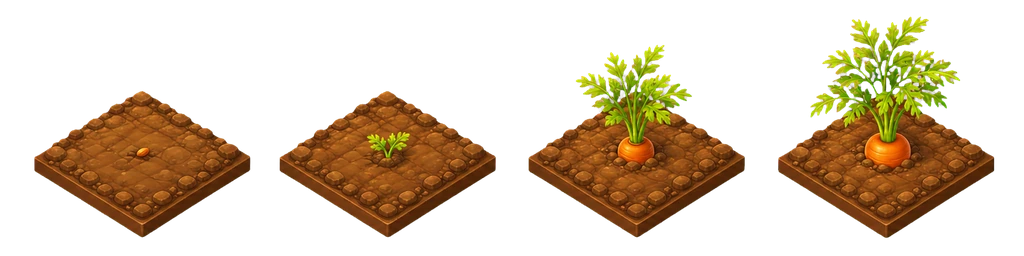
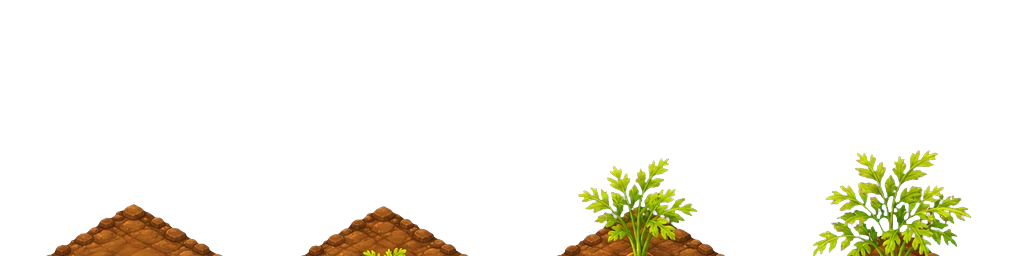
種田作物去土塊：作物直接從大田犁溝長出來（派派要的結合）
- 6 作物 4 階圖去掉各自的 iso 土塊+綠草邊框，只留植株+一小撮基部土
- 種子=小土撮、幼苗=土撮+嫩芽、生長/成熟=植株配小基座，貼大田褐土融合
- crop sheet bump ?v=2、index.html crop.js?v=2(stash 隔離別 session WIP 只提交本行)

diff --git a/village-web/crop.js b/village-web/crop.js
@@ -170,7 +170,7 @@
           }
         };
         img.onerror = () => { if (this._pending[key] === token) delete this._pending[key]; };
-        img.src = CROPS[ck].sheet + "?v=1";
+        img.src = CROPS[ck].sheet + "?v=2";
       });
     },
 
@@ -289,7 +289,7 @@
 
   function stageImg(crop, idx) {
     // 從 spritesheet 切一格當預覽（用 background-position）
-    return '<span class="pic" style="display:inline-block;background:url(' + CROPS[crop].sheet + '?v=1) -' + (idx * 52) + 'px 0/' + (52 * FRAMES) + 'px 52px no-repeat"></span>';
+    return '<span class="pic" style="display:inline-block;background:url(' + CROPS[crop].sheet + '?v=2) -' + (idx * 52) + 'px 0/' + (52 * FRAMES) + 'px 52px no-repeat"></span>';
   }
 
   function renderGrid(body) {
@@ -372,7 +372,7 @@
   function stagePreviewImg(crop, step) {
     // 進行中→顯示當前動作美術(擺動)；3 步完成→顯示幼苗預告
     if (step >= 3) {
-      return '<img src="' + CROPS[crop].sheet + '?v=1" style="object-position:-150px 0;width:' + (150 * FRAMES) + 'px;max-width:none;left:0">';
+      return '<img src="' + CROPS[crop].sheet + '?v=2" style="object-position:-150px 0;width:' + (150 * FRAMES) + 'px;max-width:none;left:0">';
     }
     return '<img class="crop-action-art" src="' + STEPS[step].img + '?v=1" alt="' + STEPS[step].label + '">';
   }

diff --git a/village-web/index.html b/village-web/index.html
@@ -97,7 +97,7 @@
 <script src="dex_cards.js?v=3"></script>
 <script src="shop.js?v=103"></script>
 <script src="farm.js?v=13"></script>
-<script src="crop.js?v=1"></script>
+<script src="crop.js?v=2"></script>
 <!-- 多人整合（feature flag）：?mp=1 才載 colyseus + mp.js，否則完全是原本單機 demo -->
 <script>if(new URLSearchParams(location.search).get("mp")==="1"){document.write('<script src="colyseus.bundle.js"><\/script><script src="mp.js?v=30"><\/script>');}</script>
 <script src="explore.js?v=131"></script>
